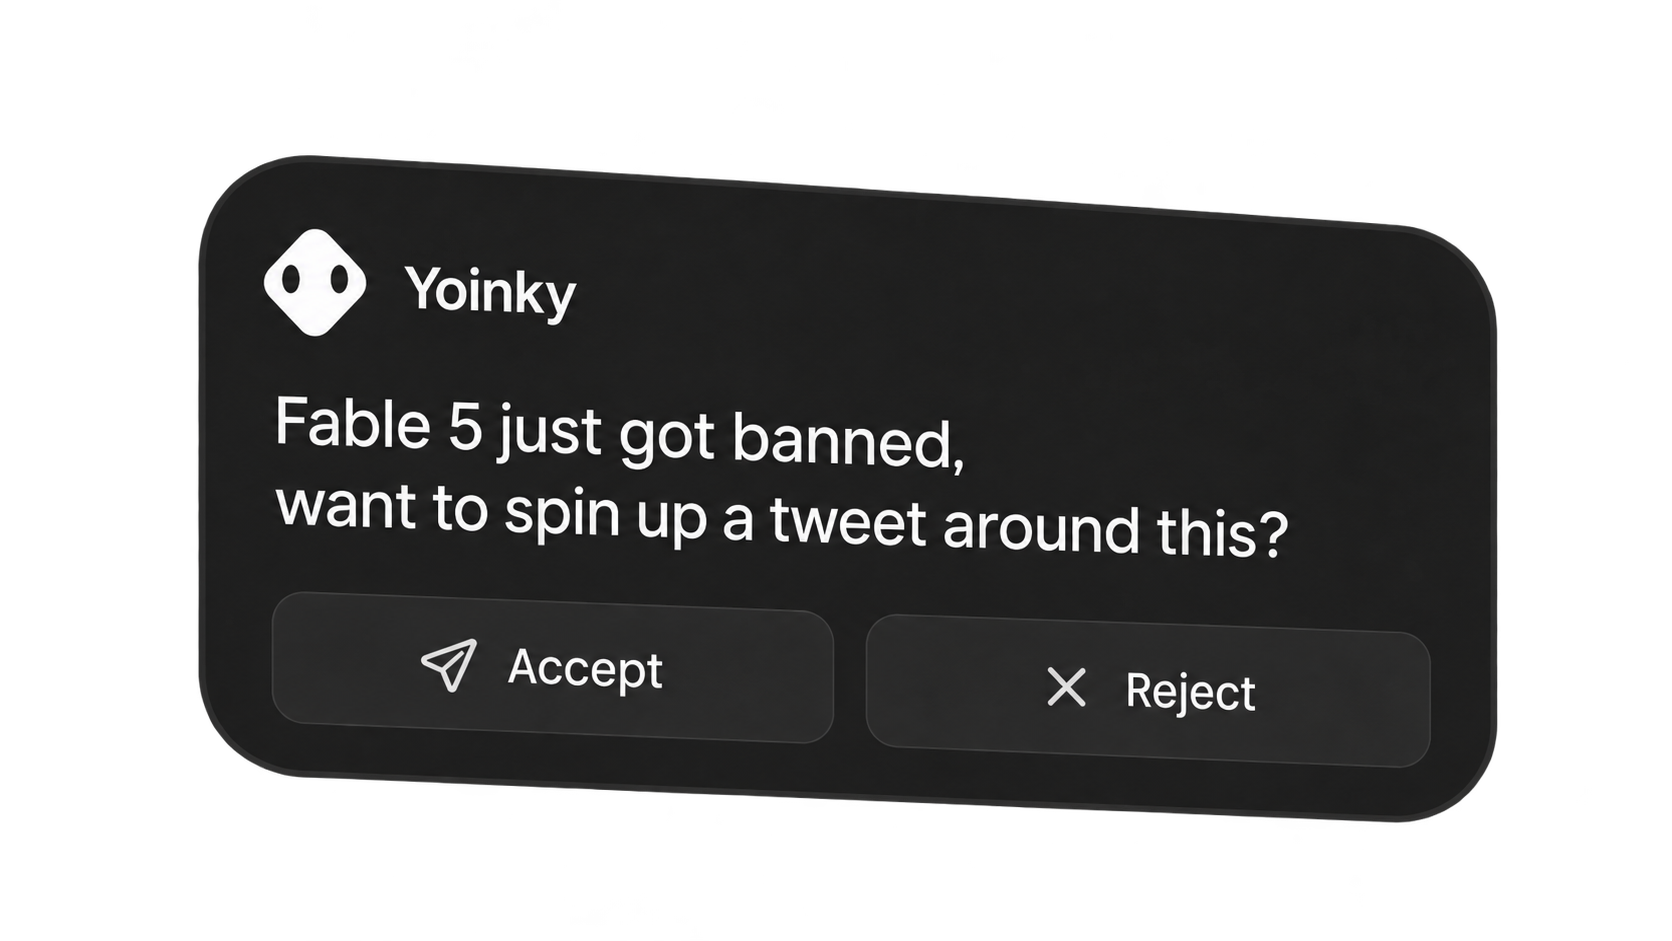
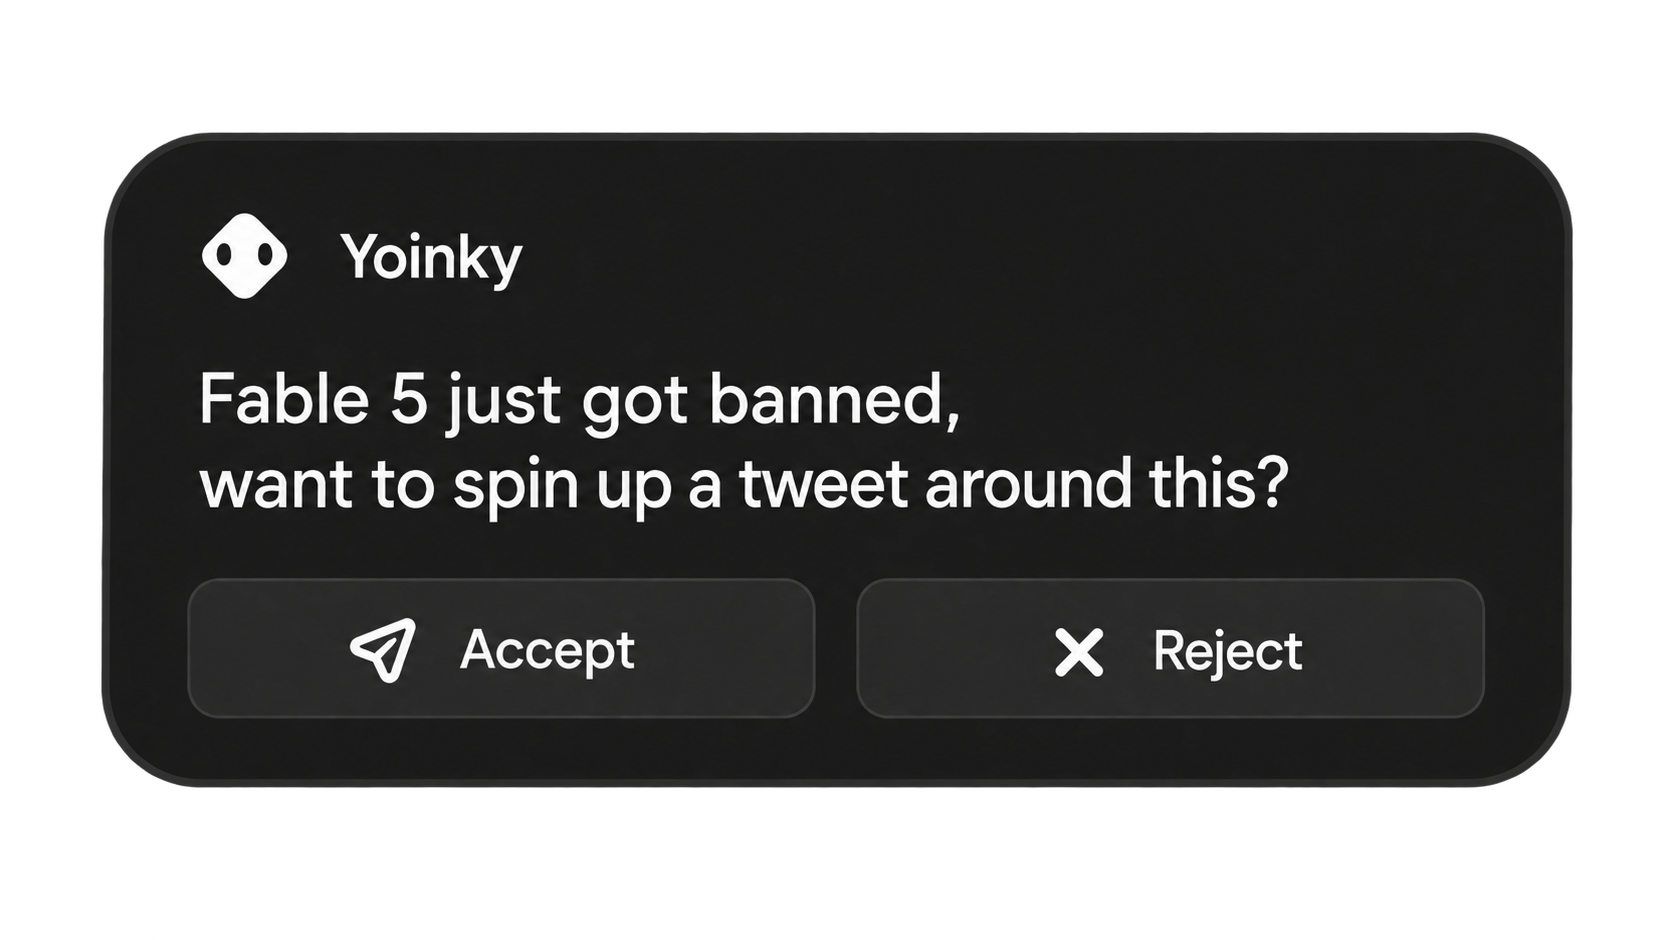
Refine bento gutters and hero headline

Changed region(s): [[0.0622, 0.1234, 0.9641, 0.8947], [0.622, 0.6479, 0.7775, 0.7713], [0.1866, 0.6479, 0.4043, 0.7404]]

diff --git a/app/(frontend)/globals.css b/app/(frontend)/globals.css
@@ -174,9 +174,9 @@ body {
 .product-learning-art {
   position: absolute;
   z-index: 1;
-  right: 14px;
+  right: clamp(28px, 2.25vw, 42px);
   bottom: 14px;
-  left: 14px;
+  left: clamp(28px, 2.25vw, 42px);
   height: 112px;
   pointer-events: none;
 }
@@ -229,8 +229,6 @@ body {
   display: block;
   width: 100%;
   height: auto;
-  transform: rotate(-3deg);
-  transform-origin: center;
 }
 
 .product-open-source-art {
@@ -355,10 +353,10 @@ body {
   .product-open-source-art { right: auto; bottom: 4px; left: 4px; width: min(38%, 130px); }
   .product-platform-art { right: auto; bottom: -36px; left: -4px; width: min(76%, 230px); }
   .product-work-art { right: auto; bottom: -38px; left: -18px; width: min(104%, 340px); }
-  .product-learning-art { right: 10px; bottom: 10px; left: 10px; height: 82px; }
+  .product-learning-art { right: 26px; bottom: 10px; left: 26px; height: 82px; }
   .product-platform-art__image { transform: translateY(-6px); }
-  .product-integration-ticker { right: 26px; bottom: 8px; width: calc(100% - 52px); gap: 6px; }
-  .product-integration-ticker__line { grid-template-columns: repeat(5, minmax(0, 48px)); gap: 6px; }
+  .product-integration-ticker { right: 26px; bottom: 8px; left: 26px; width: auto; gap: 6px; }
+  .product-integration-ticker__line { grid-template-columns: repeat(5, minmax(0, 1fr)); justify-content: start; gap: 8px; }
 }
 
 /* ── workflow explorer ── */

diff --git a/app/(frontend)/components/HeroSection.tsx b/app/(frontend)/components/HeroSection.tsx
@@ -12,7 +12,7 @@ const NAV_LINKS = [
 ];
 
 // Single static hero: the founders scene. Heading + subtext are fixed.
-const HERO_HEADING: [string, string] = ["Turn scattered knowledge", "into publish-ready content"];
+const HERO_HEADING = "Automate your founder-led marketing";
 const HERO_SUBTEXT =
   "Yoinky turns everything a company knows into content and distribution.";
 const HERO_VIDEO =
@@ -194,20 +194,12 @@ export default function HeroSection() {
                 letterSpacing: "0.015em",
                 color: contentColor,
                 textShadow: textGlow,
-                // Mobile floor raised from 34px because the headline was reading small on
-                // phones, where it's the whole first impression. Measured against
-                // Instrument Serif (~0.356em/char): the longer forced line "The only
-                // agent you" is ~256px at 40px, which clears the ~280px available on
-                // a 320px phone, so the 40px floor never forces a third line. 11vw
-                // then scales it up through normal phone widths, capping at 58px.
                 fontSize: "clamp(40px,11vw,58px)",
                 maxWidth: 780,
                 margin: 0,
               }}
             >
-              {HERO_HEADING[0]}
-              <br />
-              {HERO_HEADING[1]}
+              {HERO_HEADING}
             </h1>
 
             {/* Subtext */}
